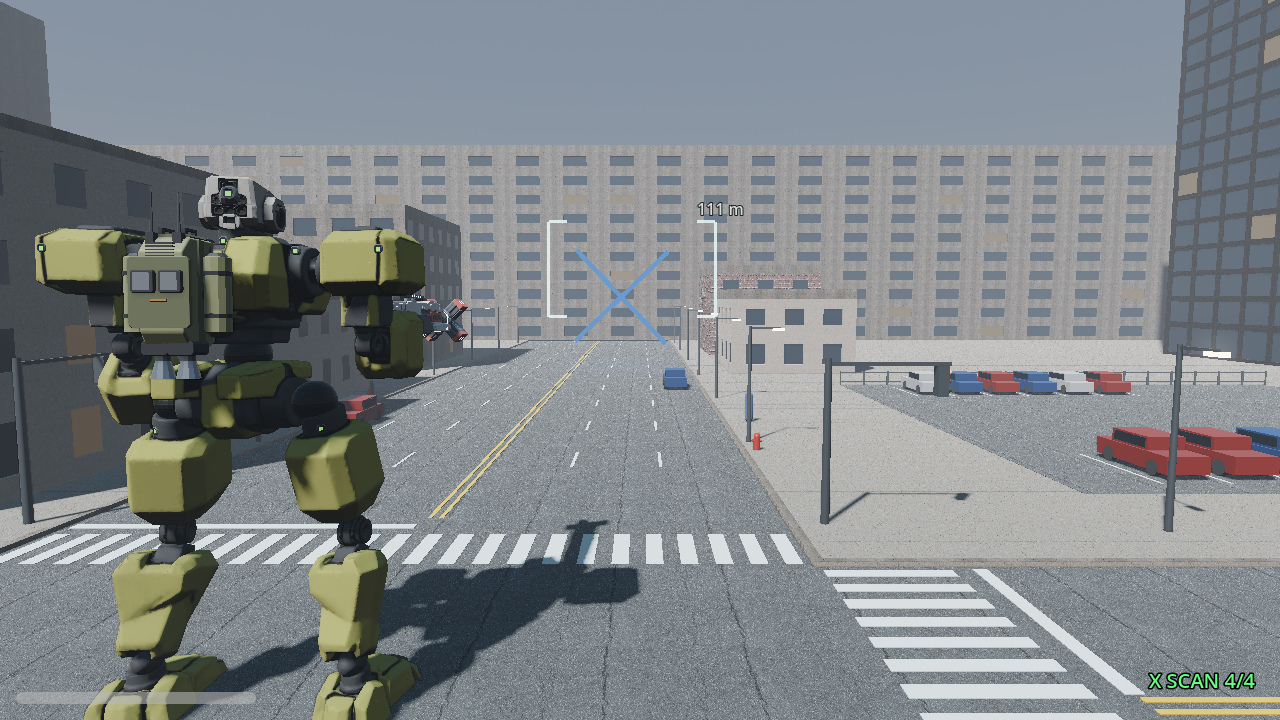
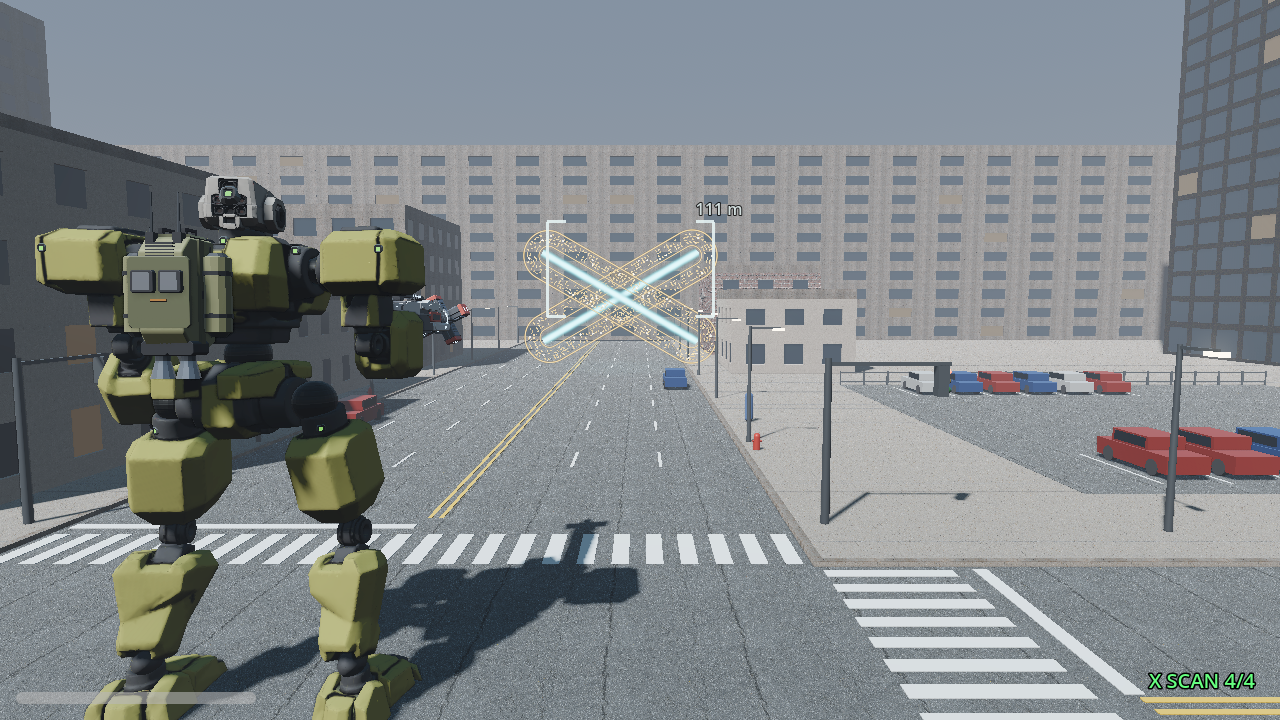
Shotgun 2 and 3: rune pulse look from the user reference
PulseShot draws rune cards (shaders/pulse_rune.gdshader: gold lines, upright
flickering glyphs, sparkles, cyan center): a horizontal rectangle for
Shotgun 2, an X of rune strips for Shotgun 3, about 10% larger than the
crosshair box on screen. Pellet patterns follow the rectangle.

Claude-Session: https://claude.ai/code/session_01KUmA77URF7KDMRfCxKb9jU

Changed region(s): [[0.4062, 0.275, 0.5938, 0.5194], [0.3125, 0.3972, 0.375, 0.4889]]

diff --git a/DESIGN.md b/DESIGN.md
@@ -1084,6 +1084,7 @@ Paint skin "Navy Orange" (the 4th garage skin, `MechSkinChoice.Style.PAINT`, the
 - More character and body (user 2026-11-01: "Beautify it, add a bit more character and body"; `details()` in the script): a wider body (frame 0.52 m, armor 0.58 m, the panels with it), a thicker stock upright with a light grey plate, a thicker pad with ribs; on each head a grey frame round the front lamps, a dark seam before the red cap, four bolts on the front face, a dark fin on the back face, three slots per side; four dark ribs and a light grey ring on the hub; a light grey barrel shroud with slots and grey collars; a raised upper panel with a seam and bolts; a dark inset and a light grey edge strip on the red panel; a raised lower panel and bolts; receiver ribs and a grey magazine block; three dark bars round the blue cell; grip rings and a red front tab on the carry frame; rear vents and a blue lamp; slots in the stock's top bar; finger ridges on the grip. The grip, hand markers, muzzle and the spinner did not move. Checks after it: test_shotgun_3 0 failures; the regression set after the manual fire change (test_weapon_hands, test_stability, test_weapon_ranges, test_stagger_rules, test_beam_rifles, test_shoulder_stop, test_drone_pack): 0 failures.
 - Game: `scenes/weapons/shotgun_3.tscn` (hand-made, `SpinPulseShotgunWeapon`: `x_pattern`, `spinner_path` Model/Heads, the emitter ring glow and the arc; the Shotgun's hand markers; `Muzzle` at z -5.15), `data/weapons/shotgun_3.tres`, both garage arm lists after Shotgun 2.
 - `SpinPulseShotgunWeapon` (`scripts/weapons/spin_pulse_shotgun_weapon.gd`, extends PulseShotgunWeapon): a press starts the spin (`spin_max_deg` 1080 deg/s in `spin_up_time` 0.15 s); after `hold_time` 0.2 s held (and the gun raised) the pulse leaves on its own; the spin then slows to a stop in `spin_down_time` 1.2 s; letting go earlier fires nothing; one shot per press. `fire_rate` 20 = the 0.05 s wait. `PulseShotgunWeapon.x_pattern`: the pellets fly on the two diagonals of the square (the center and two per half diagonal, 9 in all) and the `PulseShot` look is an X (`cross`, bars `x_bar` 0.5 m).
+- Rune pulse look for Shotgun 2 and 3 (user 2026-11-01: "Beautify and add character to the shotgun particles for shotgun 2 and 3. Use the image as reference. Shotgun 2 particle is horizontal rectangle, slightly larger than the square crosshair now. X ... also larger a bit than the square crosshair"; reference `models/guides/pulse_rune_ref.jpg`, a golden rune ring with a cyan center): `PulseShot` now draws cards with `shaders/pulse_rune.gdshader` (unshaded: a rounded rectangle with a gold outer line, a band of upright gold glyphs on the nearest edge that flicker and scroll round, sparkles, a faint gold haze, a gold inner line, a rippling cyan center, an HDR boost for bloom). Shotgun 2: one horizontal rectangle (glyph band 0.19 of the short side, so the center shows). Shotgun 3: an X of two rune strips corner to corner of the same rectangle (strip width 0.5 of its height), each with a bright cyan core line. Size: `half_deg` (7.2, 4.15) degrees seen from the player camera (the look keeps its size on screen; the crosshair box is about 6.6 x 3.8 degrees with the 53 degree camera at 16:9, so it is about 10% larger); a quick bloom out of the muzzle and a slight pulse. The pellets follow: `PulseShotgunWeapon.pattern_half_deg` (7.2, 4.15) replaces the square `spread_deg` pattern: Shotgun 2's 3 x 3 grid fills the rectangle (1.74 : 1), Shotgun 3's X runs corner to corner. Tests updated (rectangle ratio, X on the rectangle's diagonals): 0 failures.
 - Start values (Claude, to tune): 3.2 t, 9 pellets x 8 damage, spread 4 deg, 300 m/s, range 270 m, 8 shots per magazine, 5 reserve magazines, reload 2.5 s.
 - Manual fire for every shotgun (user rule 2026-11-01): `WeaponData.semi_auto` (new; true for the Shotgun, Shotgun 2 and Shotgun 3; also in `tools/mech_gen/shotgun.py`). `GunWeapon`: with it, a press queues one shot that leaves when the gun is raised and ready; letting go drops it; `needs_release` is true after the shot until the trigger is let go. `AiPilot._must_release`: the AI lets go for a frame after such a shot, then presses again.
 - Checks: `tools/godot/test_shotgun_3.gd` (a 0.1 s press fires nothing; the heads spin while held; no shot before 0.2 s; the pulse 0.32 s after the press with the raise, 0.23 s with the gun up; 9 pellets on an X; one X look; the spin slows from 1080 to 605 deg/s in 0.5 s; holding fires no more; a new press fires; the first Shotgun fires once while held 1.5 s and again on a new press): 0 failures. `test_shotgun_2.gd` (now: holding fires once; fast taps give shots 0.53 s apart): 0 failures.
@@ -1405,8 +1406,8 @@ scripts/combat/     mech_health.gd, part_hitbox.gd, part_breaker.gd, mech_death.
 - "Align shoulders and arm swings during holding war hammer and baton with shoulder and arm swings with fists": the holding arm followed the walk clip (its shoulder block rose and tilted). Now `WeaponController._swings_like_fist` (a HAMMER-kind weapon in the right hand): when it does not swing, the arm takes the fist hang target (`_update_fist_arms`, `fist_hang_target`) and its IK runs, so `SkeletalArmRig` gives it the relaxed hang and the stride swing like a fist arm (level block); the weapon rides the hand. During a swing the target is null and the clip has the arm as before. Test: test_melee_combo, test_stability, test_weapon_hands, test_hit_reactions 0 failures; renders `render_rifle.gd` RIFLE_RIGHT=hammer / baton, RIFLE_ACTIONS=move_forward, views far, far_front.
 
 ## Reminders for the user
-- Open (2026-11-01, built): play test Shotgun 3 (garage, either arm): the model against the picture, the hold to fire (0.2 s), the heads spinning and slowing down, the X pulse, the values (9 pellets x 8, 8 shots).
-- Open (2026-11-01, built): play test Shotgun 2 (garage, either arm): the model against the picture, the hold, the heads opening at each shot, the square blue pulse, one shot per press and two a second at most, the values (9 pellets x 7, 10 shots, reload 2.5 s). Also the first Shotgun now fires once per press.
+- Open (2026-11-01, built): play test Shotgun 3 (garage, either arm): the model against the picture, the hold to fire (0.2 s), the heads spinning and slowing down, the rune X pulse, the values (9 pellets x 8, 8 shots).
+- Open (2026-11-01, built): play test Shotgun 2 (garage, either arm): the model against the picture, the hold, the heads opening at each shot, the rune rectangle pulse, one shot per press and two a second at most, the values (9 pellets x 7, 10 shots, reload 2.5 s). Also the first Shotgun now fires once per press.
 - Open (2026-11-01, built): play test Beam Rifle 4 (garage, right arm): the model against the picture, the 10 m length at rest, walking and aiming, the left hand on the lower armor and the pad, the charge while walking (LMB), the light bars (body -> midsection -> barrel), the release, the stop and the large amber shot, the bars fading over the 3 s cool down, part charges, the values (450 damage at full charge, 220 m/s, 450 m).
 - Open (2026-11-01, built): play test Beam Rifle 3 (garage, right arm): the model against the picture, the hold (the left hand is 0.12 m lower), the 0.3 s charge and the bolt from the barrel, the rings and side rails (grey at rest, bright orange at full charge, then fade), the red prongs at a shot, the 3 s cool down, the bolt color and the values (200 damage, 450 m/s, 300 m).
 - Open (2026-11-01, built): play test Beam Rifle 2 (garage, right arm): the model and the colors against the picture, the hold (the Beam Rifle's), the rapid bolts from the middle barrel with the two rail bores flashing red (LMB held), the heat and the overheat, the values (4 bolts/s, 30 damage, 200 m). Then send the next beam rifle picture.
